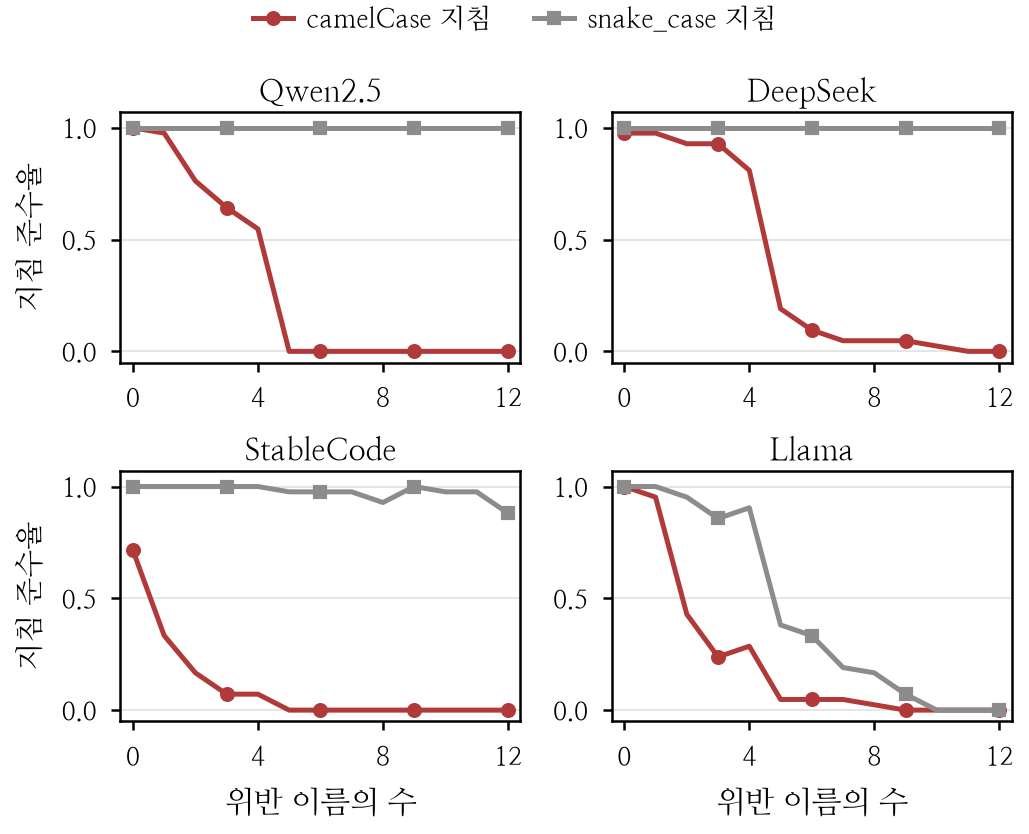
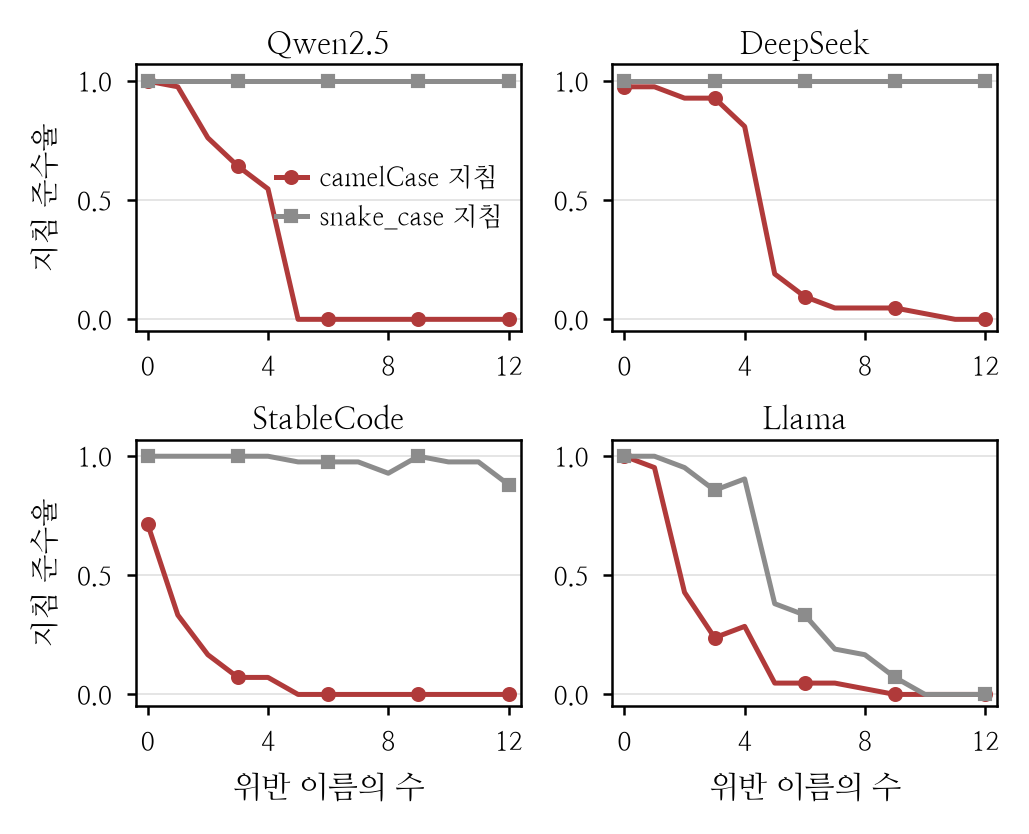
그림 1을 그림 2와 같은 구조·같은 상자로 확정
fig_attention과 같은 figsize·여백·잘라내기를 쓰고 범례도 판 안에 둔다(판 밖으로
빼면 그만큼 격자가 눌려 판 크기를 맞출 수 없다). 잘라내기 위치는 눈금 글자 폭에
좌우되어 0.2pt쯤 어긋나므로, _save에 box_pt를 두어 상자를 목표 크기로 못 박는다.

  그림1  247.07 x 200.38 pt
  그림2  247.07 x 200.38 pt

Claude-Session: https://claude.ai/code/session_01YabXMXZ1FHdG4oH1H9fXx5

Changed region(s): [[0.0, 0.0, 0.9951, 0.9976], [0.0, 0.1559, 0.1555, 0.3741], [0.5287, 0.0, 0.622, 0.0312]]

diff --git a/scripts/paper_figures_ko.py b/scripts/paper_figures_ko.py
@@ -142,10 +142,10 @@ def fig_cliff(out: Path):
         by[(c["model"]["family"], c["instruction"]["target_notation"])][n_viol].append(
             1.0 if r["metrics"]["extra"]["first_compliant"] else 0.0)
 
-    # 상자를 그림 2의 저장 크기(247.07 x 200.38 pt)에 못 박는다. 잘라내기를 끄면
-    # (_save의 tight=False) figsize가 곧 결과 크기이므로 두 그림의 높이가 정확히 같다.
-    # 범례 자리는 이 상자 **안에서** 위쪽을 비워 확보한다(rect).
-    fig, axes = plt.subplots(2, 2, figsize=(247.07 / 72, 200.38 / 72))
+    # 그림 2(fig_attention)와 **완전히 같은 구조**로 그린다: 같은 figsize, 같은 여백,
+    # 같은 잘라내기, 범례도 판 안. 하나라도 다르면 상자나 판 크기가 어긋난다.
+    # 범례를 판 밖으로 빼면 그만큼 격자가 눌리므로 판 크기를 맞출 수 없다.
+    fig, axes = plt.subplots(2, 2, figsize=(3.3, 2.65))
     for ax, m in zip(axes.ravel(), ORDER):
         for tgt, color, mk, lab in (("camel", RED, "o", "camelCase 지침"),
                                     ("snake", GRAY, "s", "snake_case 지침")):
@@ -167,12 +167,12 @@ def fig_cliff(out: Path):
         ax.set_xlabel("위반 이름의 수", fontsize=7.5)
     for ax in axes[:, 0]:
         ax.set_ylabel("지침 준수율", fontsize=7)
-    fig.tight_layout(pad=0.45, h_pad=0.7, w_pad=0.9, rect=(0, 0, 1, 0.925))
-    h, l = axes[0][0].get_legend_handles_labels()
-    fig.legend(h, l, ncol=2, loc="upper center", bbox_to_anchor=(0.5, 1.005),
-               fontsize=6.4, handlelength=1.5, columnspacing=1.6, borderaxespad=0.0,
-               frameon=False)
-    _save(fig, out, "ko_cliff", tight=False)
+    # 그림 2는 범례를 첫 판 왼쪽 위에 둔다. 이 그림은 그 자리에 선이 지나므로
+    # 비어 있는 오른쪽 가운데에 놓는다 — 판 안이어야 격자 크기가 그림 2와 같아진다.
+    axes[0][0].legend(fontsize=6.2, loc="center right", handlelength=1.2,
+                      borderaxespad=0.3)
+    fig.tight_layout(pad=0.3, h_pad=0.7, w_pad=0.9)
+    _save(fig, out, "ko_cliff", box_pt=(247.07, 200.38))   # 그림 2와 같은 상자
 
 
 # ── 그림 2. Key와 Value 중 어느 쪽이 표기를 나르나 (step3 + step5) ───────
@@ -499,7 +499,8 @@ def fig_score_vs_real(out: Path):
     _save(fig, out, "ko_score_vs_real")
 
 
-def _save(fig, out: Path, name: str, tight: bool = True) -> None:
+def _save(fig, out: Path, name: str, tight: bool = True,
+          box_pt: tuple[float, float] | None = None) -> None:
     """tight=False면 여백을 잘라내지 않고 figsize를 **그대로** 상자 크기로 쓴다.
 
     bbox_inches="tight"는 내용에 맞춰 여백을 깎으므로, 축 라벨 길이가 다른 두 그림은
@@ -507,7 +508,16 @@ def _save(fig, out: Path, name: str, tight: bool = True) -> None:
     정확히 맞춰야 할 때는 잘라내기를 끄고 figsize로 상자를 못 박는다.
     """
     out.mkdir(parents=True, exist_ok=True)
-    bb = "tight" if tight else None
+    if box_pt is not None:
+        # 잘라내기 위치는 눈금 글자 폭에 좌우되어 그림마다 0.2pt쯤 어긋난다. 나란히 놓을
+        # 그림끼리는 그 차이도 보이므로, 잘라낸 상자를 목표 크기(pt)로 늘려 못 박는다.
+        from matplotlib.transforms import Bbox
+        tb = fig.get_tightbbox(fig.canvas.get_renderer())
+        cx, cy = (tb.x0 + tb.x1) / 2, (tb.y0 + tb.y1) / 2
+        w, h = box_pt[0] / 72 / 2, box_pt[1] / 72 / 2
+        bb = Bbox([[cx - w, cy - h], [cx + w, cy + h]])
+    else:
+        bb = "tight" if tight else None
     fig.savefig(out / f"{name}.pdf", bbox_inches=bb)
     fig.savefig(out / f"{name}.png", bbox_inches=bb)
     plt.close(fig)
